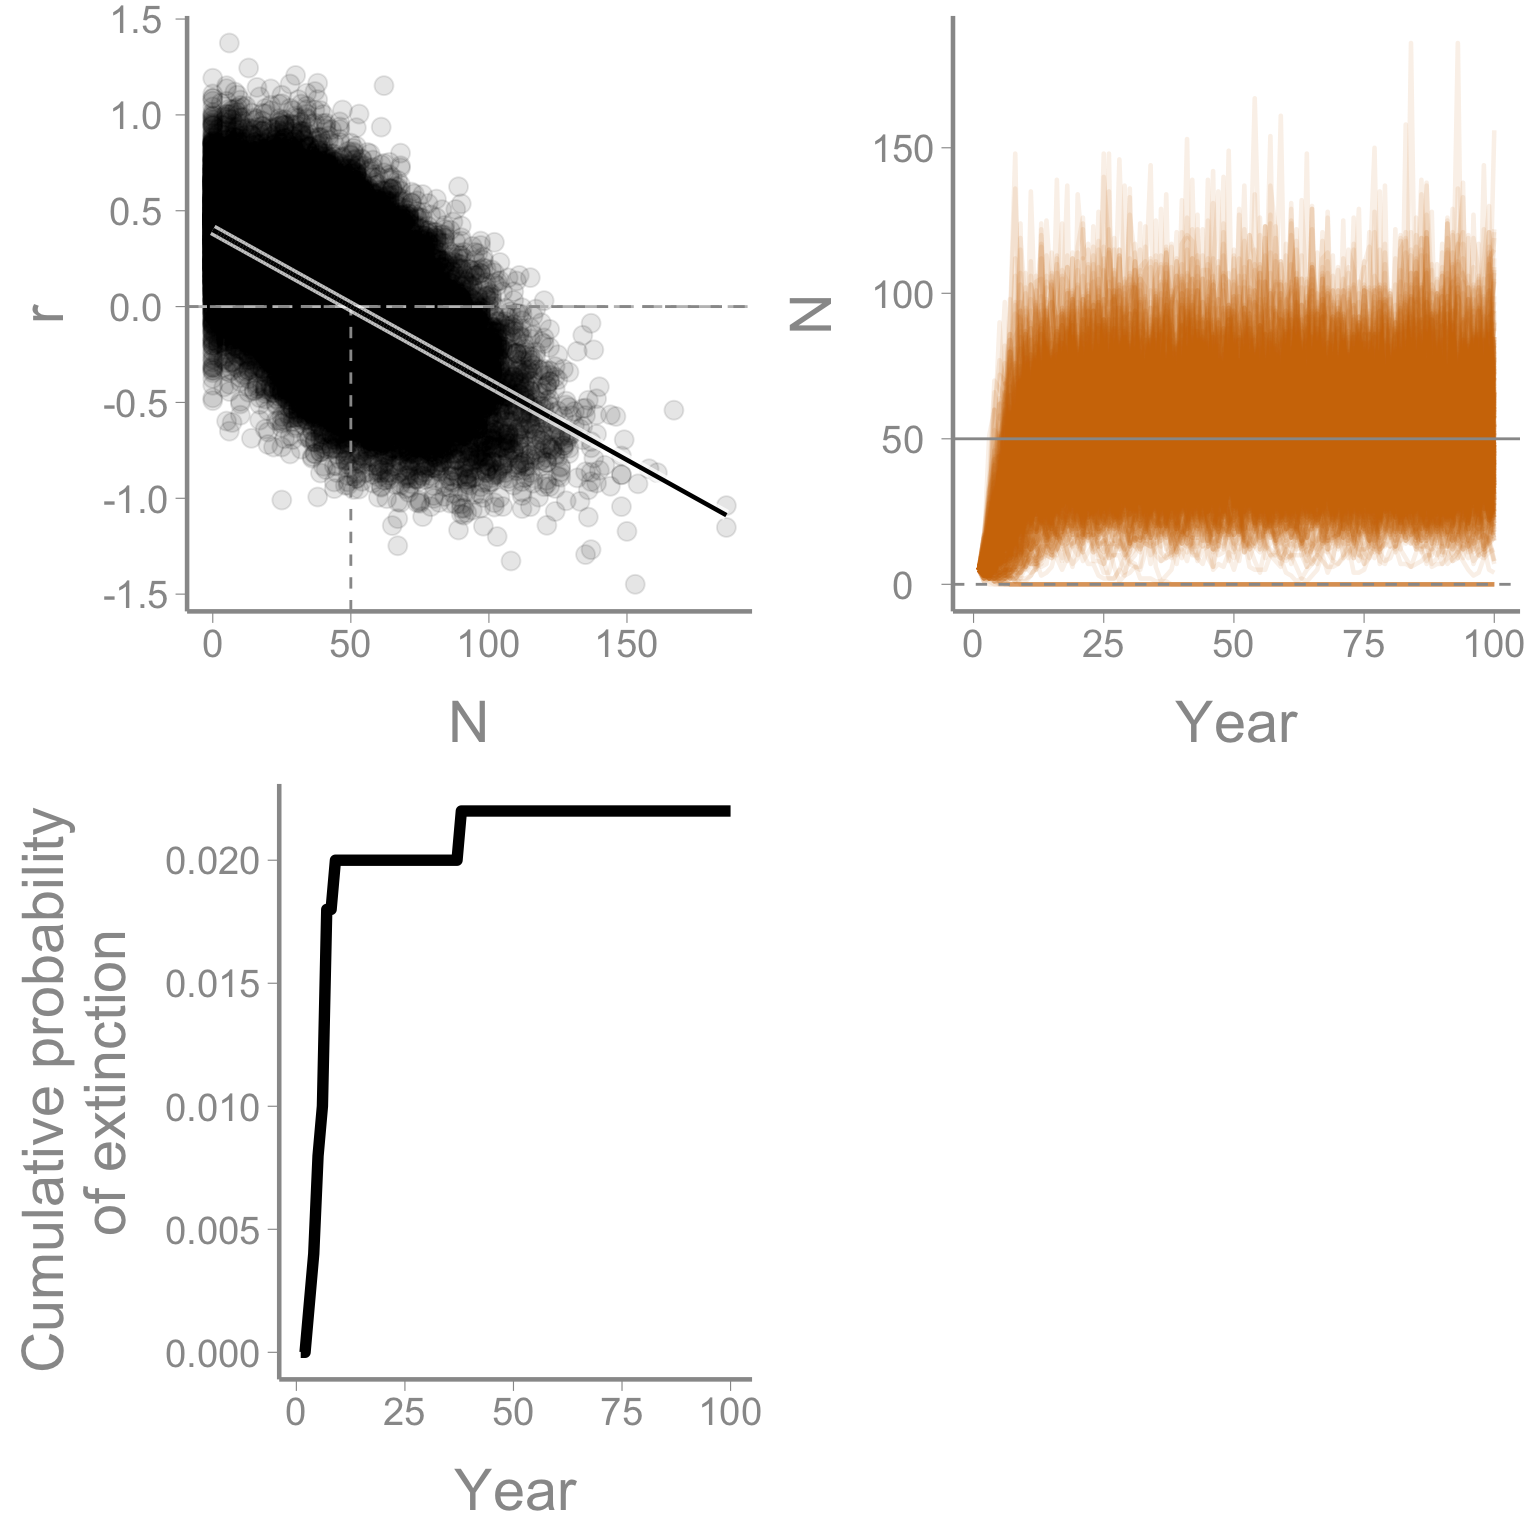
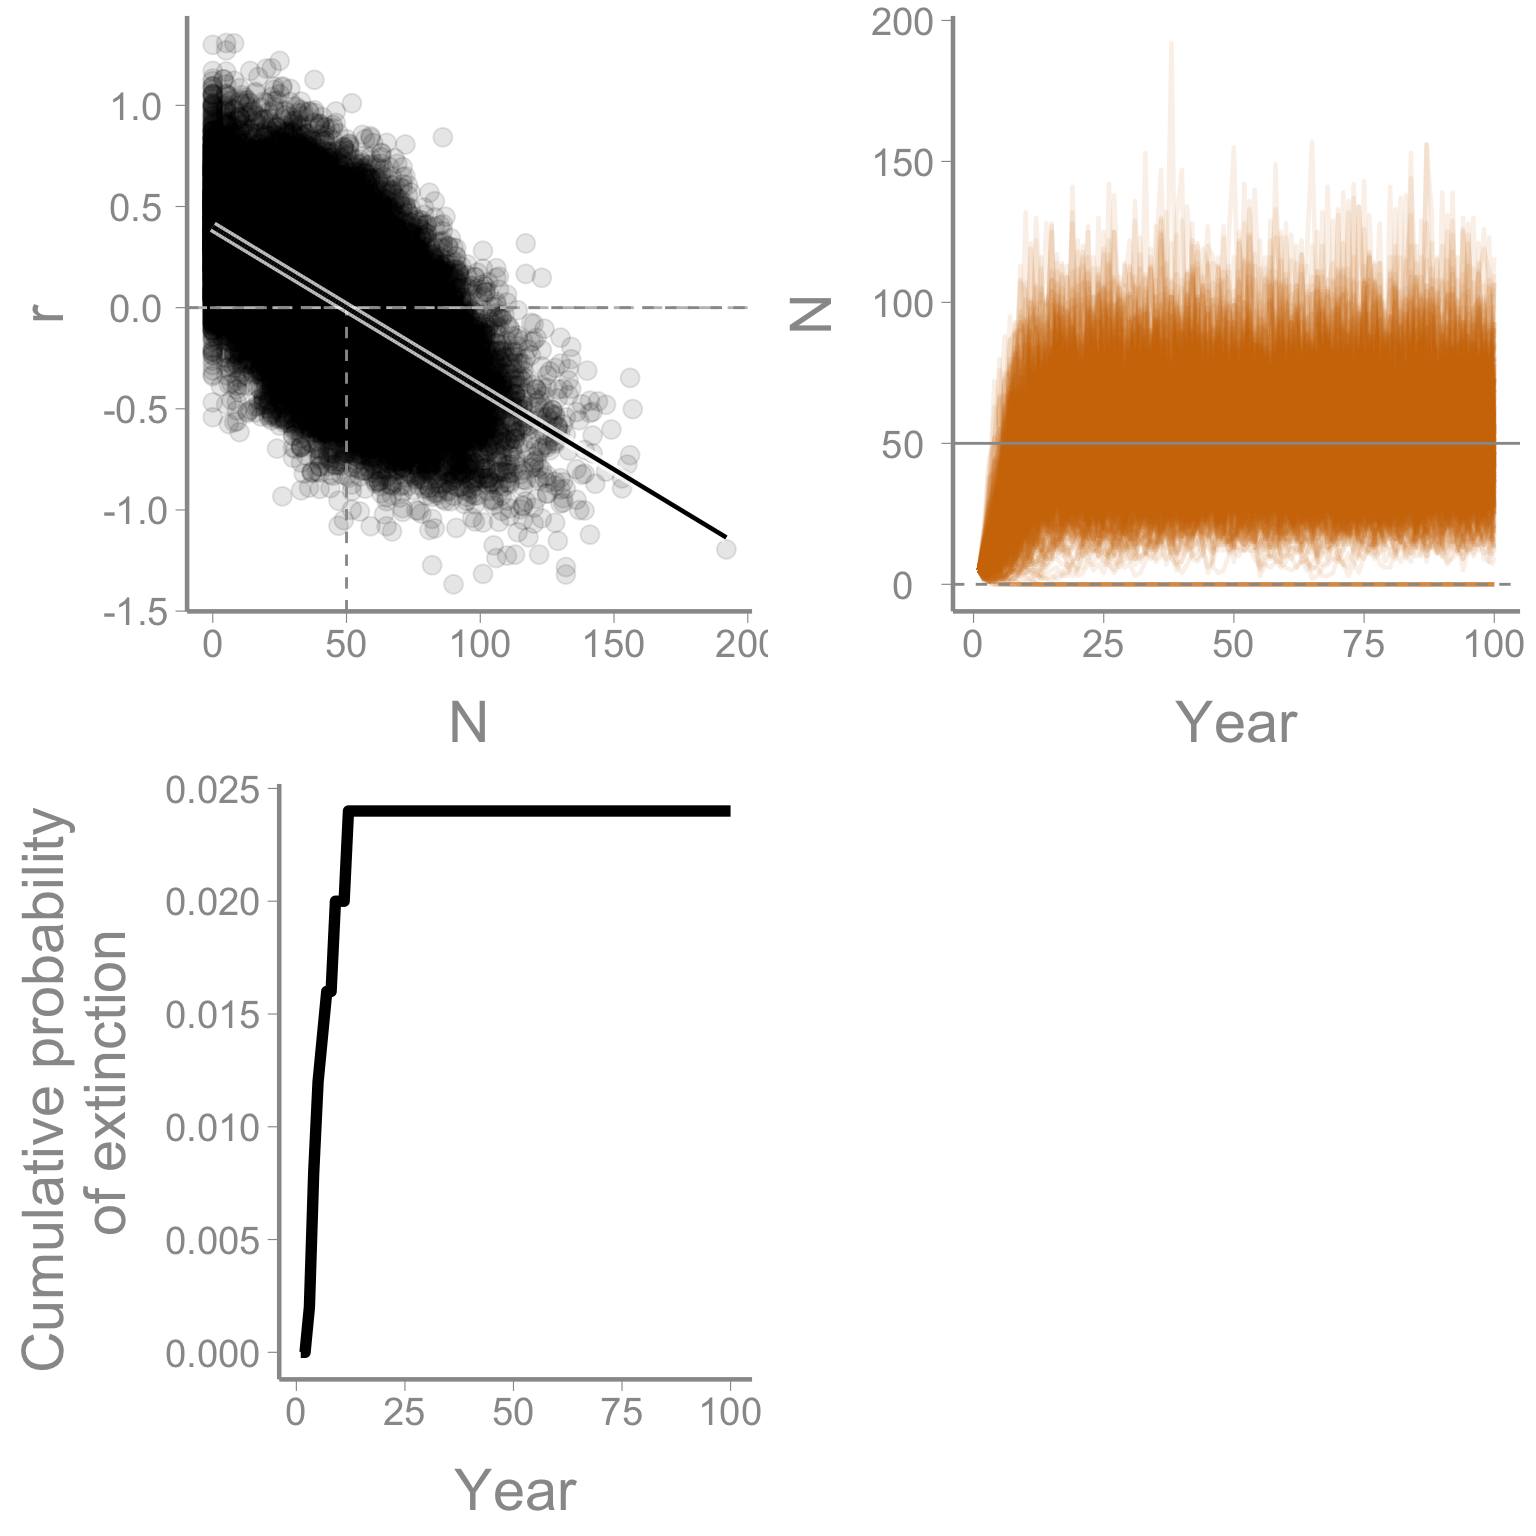
tweak lab3

diff --git a/docs/articles/lab3.html b/docs/articles/lab3.html
@@ -153,11 +153,11 @@
 <li>
 <code>R</code> functions used in this exercise:
 <ul>
-<li>
-<code><a href="../reference/pva.html">WILD3810::pva()</a></code> ***</li>
+<li><code><a href="../reference/pva.html">WILD3810::pva()</a></code></li>
 </ul>
 </li>
 </ul>
+<hr>
 <div id="setting-up-the-lab" class="section level2">
 <h2 class="hasAnchor">
 <a href="#setting-up-the-lab" class="anchor"></a>Setting up the lab</h2>
@@ -268,14 +268,14 @@ Yes
 1
 </td>
 <td style="text-align:right;">
-0.022
+0.024
 </td>
 <td style="text-align:right;">
-7
+5.5
 </td>
 </tr></tbody>
 </table>
-<p>This table returns some of the input parameters (<code>nYears</code>, <code>N0</code>, <code>r0</code>, <code>variance.r</code>) as well as summaries about the type of model (density dependent or independent), carrying capacity (if density-dependent). In addition, the output include two important summary statistics:</p>
+<p>This table returns some of the input parameters (<code>nYears</code>, <code>N0</code>, <code>r0</code>, <code>variance.r</code>) as well as summaries about the type of model (density dependent or independent) and carrying capacity (if density-dependent). In addition, the output include two important summary statistics:</p>
 <ol style="list-style-type: decimal">
 <li><p><code>prob.extinct</code>: the estimated probability of extinction over the simulated time frame</p></li>
 <li><p><code>median.time.to.ext</code>: of the populations that went extinct, the median number of years to extinction</p></li>
@@ -309,7 +309,7 @@ Yes
 <p>Next, let’s vary <code>K</code>. To start, leave the other options the same as in <code>sim_r.1</code> but with <code>K=150</code>:</p>
 <div class="sourceCode"><pre class="sourceCode r"><code class="sourceCode r">sim_K.<span class="dv">1</span> &lt;-<span class="st"> </span><span class="kw"><a href="../reference/pva.html">pva</a></span>(<span class="dt">N0 =</span> <span class="dv">5</span>, <span class="dt">number.of.years =</span> <span class="dv">100</span>, 
                 <span class="dt">r0 =</span> <span class="fl">0.1</span>, <span class="dt">variance.r =</span> <span class="fl">0.075</span>, <span class="dt">K =</span> <span class="dv">150</span>)</code></pre></div>
-<p>What happened to extinction probability relative to <code>K = 50</code>? To make sure the previous result wasn’t a fluke, let’s increase <code>K</code> again and see if the pattern holds:</p>
+<p>What happened to extinction probability relative to <code>K = 50</code>? To make sure the previous result wasn’t a fluke, increase <code>K</code> again and see if the pattern holds:</p>
 <div class="sourceCode"><pre class="sourceCode r"><code class="sourceCode r">sim_K.<span class="dv">2</span> &lt;-<span class="st"> </span><span class="kw"><a href="../reference/pva.html">pva</a></span>(<span class="dt">N0 =</span> <span class="dv">5</span>, <span class="dt">number.of.years =</span> <span class="dv">100</span>, 
                 <span class="dt">r0 =</span> <span class="fl">0.1</span>, <span class="dt">variance.r =</span> <span class="fl">0.075</span>, <span class="dt">K =</span> <span class="dv">500</span>)</code></pre></div>
 <hr>
@@ -340,7 +340,7 @@ Yes
 <div id="factor-3b-demographic-stochasticity" class="section level3">
 <h3 class="hasAnchor">
 <a href="#factor-3b-demographic-stochasticity" class="anchor"></a>Factor 3b: Demographic stochasticity</h3>
-<p>Before moving on from the question of population size, let’s look more closely at the role of demographic stochasticity by removing environmental stochasticity from the model (<code>variance.r = 0</code>) and observing how demographic stochasticity influences extinction risk at different carrying capacities. Start with a large K (<code>K=500</code>):</p>
+<p>Before moving on from the question of stochasticity, let’s look more closely at the role of demographic stochasticity by removing environmental stochasticity from the model (<code>variance.r = 0</code>) and observing how demographic stochasticity influences extinction risk at different carrying capacities. Start with a large K (<code>K=500</code>):</p>
 <hr>
 <p><strong>Prediction</strong>: At large sizes, do you expect demographic stochasticity to have important consequences for extinction risk?</p>
 <hr>
@@ -372,7 +372,7 @@ Yes
 <div class="sourceCode"><pre class="sourceCode r"><code class="sourceCode r">sim_var_r.<span class="dv">2</span> &lt;-<span class="st"> </span><span class="kw"><a href="../reference/pva.html">pva</a></span>(<span class="dt">N0 =</span> <span class="dv">20</span>, <span class="dt">number.of.years =</span> <span class="dv">100</span>, 
                    <span class="dt">r0 =</span> <span class="fl">0.4</span>, <span class="dt">variance.r =</span> <span class="fl">0.2</span>, <span class="dt">K =</span> <span class="dv">150</span>)</code></pre></div>
 <p>Were you right?</p>
-<p>Let’s increase <code>N0</code> again to make sure it wasn’t a fluke:</p>
+<p>Increase <code>N0</code> again to make sure it wasn’t a fluke:</p>
 <div class="sourceCode"><pre class="sourceCode r"><code class="sourceCode r">sim_N0.<span class="dv">2</span> &lt;-<span class="st"> </span><span class="kw"><a href="../reference/pva.html">pva</a></span>(<span class="dt">N0 =</span> <span class="dv">50</span>, <span class="dt">number.of.years =</span> <span class="dv">100</span>, 
                 <span class="dt">r0 =</span> <span class="fl">0.4</span>, <span class="dt">variance.r =</span> <span class="fl">0.2</span>, <span class="dt">K =</span> <span class="dv">150</span>)</code></pre></div>
 <p>What if <code>N0 &gt; K</code>?</p>
@@ -402,7 +402,7 @@ Yes
 <div class="sourceCode"><pre class="sourceCode r"><code class="sourceCode r">sim_theta.<span class="dv">2</span> &lt;-<span class="st"> </span><span class="kw"><a href="../reference/pva.html">pva</a></span>(<span class="dt">N0 =</span> <span class="dv">250</span>, <span class="dt">number.of.years =</span> <span class="dv">100</span>, 
                 <span class="dt">r0 =</span> <span class="fl">0.4</span>, <span class="dt">variance.r =</span> <span class="fl">0.2</span>, <span class="dt">K =</span> <span class="dv">150</span>, <span class="dt">theta =</span> <span class="fl">0.25</span>)</code></pre></div>
 <p>Was your prediction correct?</p>
-<p>Now let’s try <span class="math inline">\(\theta &gt; 1\)</span>:</p>
+<p>Now try <span class="math inline">\(\theta &gt; 1\)</span>:</p>
 <div class="sourceCode"><pre class="sourceCode r"><code class="sourceCode r">sim_theta.<span class="dv">3</span> &lt;-<span class="st"> </span><span class="kw"><a href="../reference/pva.html">pva</a></span>(<span class="dt">N0 =</span> <span class="dv">250</span>, <span class="dt">number.of.years =</span> <span class="dv">100</span>, 
                 <span class="dt">r0 =</span> <span class="fl">0.4</span>, <span class="dt">variance.r =</span> <span class="fl">0.2</span>, <span class="dt">K =</span> <span class="dv">150</span>, <span class="dt">theta =</span> <span class="fl">1.25</span>)</code></pre></div>
 <p>And even larger:</p>
@@ -410,19 +410,23 @@ Yes
                 <span class="dt">r0 =</span> <span class="fl">0.4</span>, <span class="dt">variance.r =</span> <span class="fl">0.2</span>, <span class="dt">K =</span> <span class="dv">150</span>, <span class="dt">theta =</span> <span class="fl">1.75</span>)</code></pre></div>
 <p>Before moving on, use the <code>dplyr</code> function <code>bind_rows</code> to create a new data frame that contains all of the simulations created in this section. Call the new data frame <code>sim_dd</code>.</p>
 </div>
+<div id="on-your-own" class="section level2">
+<h2 class="hasAnchor">
+<a href="#on-your-own" class="anchor"></a>On your own</h2>
+<p>So far, we have only varied one parameter at a time. On your own, play with different combinations of the parameters and see what happens to extinction risk and time to extinction. Before making a change, be sure to think about what you predict will happen and then see if you prediction was correct.</p>
+</div>
 <div id="putting-it-all-together" class="section level2">
 <h2 class="hasAnchor">
 <a href="#putting-it-all-together" class="anchor"></a>Putting it all together</h2>
-<p>On your own, create a new data frame that contains all of the simulated results:</p>
+<p>On your own, create a new data frame that contains all of the simulated results (add any that you created in the previou section):</p>
 <div class="sourceCode"><pre class="sourceCode r"><code class="sourceCode r">
 sim_pva &lt;-<span class="st"> </span><span class="kw">bind_rows</span>(sim_test, sim_r, sim_K, sim_var_r, sim_N0, sim_dd)</code></pre></div>
 <p>Now create your own plots showing the relationship between extinction probability/time to extinction and the parameters you varied in the simulations. Using the following code as a guide:</p>
-<div class="sourceCode"><pre class="sourceCode r"><code class="sourceCode r"><span class="kw"><a href="https://www.rdocumentation.org/packages/base/topics/library">library</a></span>(ggplot2)
-<span class="kw"><a href="https://ggplot2.tidyverse.org/reference/ggplot.html">ggplot</a></span>(sim_pva, <span class="kw"><a href="https://ggplot2.tidyverse.org/reference/aes.html">aes</a></span>(<span class="dt">x =</span> prob.extinct, <span class="dt">y =</span> variance.r, <span class="dt">size =</span> N0)) <span class="op">+</span><span class="st"> </span><span class="kw"><a href="https://ggplot2.tidyverse.org/reference/geom_point.html">geom_point</a></span>()</code></pre></div>
+<div class="sourceCode"><pre class="sourceCode r"><code class="sourceCode r"><span class="kw">ggplot</span>(sim_pva, <span class="kw">aes</span>(<span class="dt">x =</span> prob.extinct, <span class="dt">y =</span> variance.r, <span class="dt">size =</span> N0)) <span class="op">+</span><span class="st"> </span><span class="kw">geom_point</span>()</code></pre></div>
 </div>
-<div id="homework-3-population-viability-of" class="section level1">
+<div id="homework-3-population-viability-of-the-violet-winged-checkerspot" class="section level1">
 <h1 class="hasAnchor">
-<a href="#homework-3-population-viability-of" class="anchor"></a>Homework 3: Population viability of</h1>
+<a href="#homework-3-population-viability-of-the-violet-winged-checkerspot" class="anchor"></a>Homework 3: Population viability of the violet-winged checkerspot</h1>
 <div id="background" class="section level2">
 <h2 class="hasAnchor">
 <a href="#background" class="anchor"></a>Background</h2>
@@ -432,14 +436,14 @@ sim_pva &lt;-<span class="st"> </span><span class="kw">bind_rows</span>(sim_test
 <p><img src="lab3_files/figure-html/unnamed-chunk-29-1.png" width="700"></p>
 <p>After the initial drop in the population size, a working group made up of elected officials and appointed agency officials was formed to set management objectives and decide on management actions to ensure the long-term persistence of this species. The working group, afraid that setting specific management objectives might set themselves up for failure, decided on two vague objectives:</p>
 <ol style="list-style-type: decimal">
-<li><p>Ensure high probability that the population will not go extinct in the near future</p></li>
-<li><p>Ensure reasonable probability that the population does not drop below the monitoring threshold of 10</p></li>
+<li><p>Ensure high probability that the species will not go extinct in the near future</p></li>
+<li><p>Ensure reasonable probability that the species does not drop below the monitoring threshold of 10</p></li>
 </ol>
 <p>The second objective was created because once the population drops below 10 individuals, it becomes very difficult to find and count individuals. Therefore, maintaining the population above this quasi-extinction threshold was viewed as an important objective for accurately monitoring future population size.</p>
 <div id="turning-the-objectives-into-actions" class="section level3">
 <h3 class="hasAnchor">
 <a href="#turning-the-objectives-into-actions" class="anchor"></a>Turning the objectives into actions</h3>
-<p>Because the working group contained no ecologists, the members had to out-source the hard work of actually predicting the future dynamics of the checkerspot under different management scenarios. As the agency’s most promising young entomologist and an expert in population viability analysis, you have been asked to conduct a study and provide the working group with a specific recommendation for how to meet the two management objectives.</p>
+<p>Because the working group contained no ecologists, the members had to out-source the hard work of actually predicting the future dynamics of the checkerspot. As the agency’s most promising young entomologist and an expert in population viability analysis, you have been asked to conduct a study and provide the working group with a specific recommendation for how to meet the two management objectives.</p>
 <p>In order to provide the working group with a scientifically-sound recommendation, you pull together all of the data you can find on the violet-winged checkerspot. These data include:</p>
 <ul>
 <li>The observed counts of individuals in each year since 1980. These are stored in a data frame which can be accessed directly in <code>R</code>. The data frame contains the <code>Year</code>, abundance (<code>N</code>), and whether the count was conducted before or after the housing developments were built.</li>
@@ -491,10 +495,11 @@ sim_pva &lt;-<span class="st"> </span><span class="kw">bind_rows</span>(sim_test
 <li><p>The carrying capacity in this case refers to <code>K</code> <em>after</em> the housing development was built. You have enough information to estimate this by estimating <code>K</code> <em>before</em> the housing development and then reducing that by the amount of habitat that was lost. Use the <code><a href="https://www.rdocumentation.org/packages/stats/topics/filter">filter()</a></code> function from the <code>dplyr</code> package to filter just the observed counts before the housing development. Then estimate <code>K</code> as the mean of those counts</p></li>
 <li><p>The baseline birth and death rates as well as the rates in fire years can be estimated from the observed number of births and deaths. Did those rates change before and after the development? Use your best scientific judgement to answer this. Were those rates different in fire years? To estimate these rates, create vectors that hold the observed births or deaths and the observed abundance in each of those years. Then estimate the mean birth rate or death rate from these objects.</p></li>
 <li><p>The function requires an estimate of the fire frequency. Think of this as the <em>probability</em> of a fire any given year. Did this frequency change before and after the development?</p></li>
-<li><p>The working group was vague about the time frame and acceptable extinction probability. You will have to decide what time frame and risk correspond to “near future” and “high probability” (or “reasonable probability” for the monitoring threshold)</p></li>
+<li><p>The working group was vague about the time frame and acceptable extinction probability. You will have to decide what time frame and risk correspond to “near future” and “high probability” (or “reasonable probability” for the monitoring threshold). In your recommendation, you will need state the time frane you chose and justify this choice.</p></li>
 </ol>
 <p>Once you have code that creates all of the objects you need to run the function, you can run it using:</p>
 <div class="sourceCode"><pre class="sourceCode r"><code class="sourceCode r">base_pva &lt;-<span class="st"> </span><span class="kw"><a href="../reference/baseline_pva.html">baseline_pva</a></span>(...)</code></pre></div>
+<p>Subsituting <code>...</code> for the required arguments.</p>
 <p>In addition to the figure showing the predicted dynamics of the simulated populations, the <code>base_pva</code> object is a data frame containing the final abundance of each simulated population, whether the population ended below the extinction threshold, and the number of years it took for the “extinct” populations to go extinct. You can use this object to estimate the probability of quasi-extinction and median time to extinction:</p>
 <div class="sourceCode"><pre class="sourceCode r"><code class="sourceCode r"><span class="kw"><a href="https://www.rdocumentation.org/packages/base/topics/mean">mean</a></span>(base_pva<span class="op">$</span>Extinct)
 <span class="kw"><a href="https://www.rdocumentation.org/packages/stats/topics/median">median</a></span>(base_pva<span class="op">$</span>year0, <span class="dt">na.rm =</span> <span class="ot">TRUE</span>) <span class="co"># Note that you need the `na.rm = TRUE` for this function to work</span></code></pre></div>
@@ -506,7 +511,7 @@ sim_pva &lt;-<span class="st"> </span><span class="kw">bind_rows</span>(sim_test
 <div id="management-actions" class="section level2">
 <h2 class="hasAnchor">
 <a href="#management-actions" class="anchor"></a>Management actions</h2>
-<p>With the baseline predictions, you are know ready to explore several management actions that could be taken to reduce the extinction risk of the checkerspot. These actions include:</p>
+<p>With the baseline predictions, you are now ready to explore several management actions that could be taken to reduce the extinction risk of the checkerspot. These actions include:</p>
 <ol style="list-style-type: decimal">
 <li><p>Increase <code>K</code> by creating new habitat</p></li>
 <li><p>Decrease the frequency of fires by more aggressively managing them before they become severe</p></li>
@@ -519,7 +524,7 @@ sim_pva &lt;-<span class="st"> </span><span class="kw">bind_rows</span>(sim_test
 <code>fire.prob</code> - the future fire frequency due to fire management</li>
 </ul>
 <p>This function will also return a data frame with the same information as <code>baseline_pva</code>, which will allow you estimate the extinction probability and time to extinction for the management scenario you created. In addition, it will save the figure to the folder where your .Rmd file is located (the figure will be called <code>alternative_pva.png</code>).</p>
-<p>You should also run the function with <code>extinction.threshold=10</code> to check the monitoring objective as well (this will create a figure called <code>alternative_monitoring_pva.png</code>).</p>
+<p>You should also run the function with <code>extinction.threshold=10</code> to check the monitoring objective..</p>
 <p>Of course, management costs money and money is limited. Every 1% increase in <code>K</code> costs $500 and every 1% decrease in fire frequency costs $1500. The total available funds for this project is $100,000. If the proposed combination of increased <code>K</code> and decreased fire probability exceeds the total cost, you will get an error message stating that you need to either reduce <code>K</code> or allow a higher fire probability.</p>
 <p>Run this function as many times as needed from within the chunk until you are satisfied that you have found the combination of habitat creation and fire reduction that best meets the stated management objectives.</p>
 </div>
@@ -545,9 +550,10 @@ sim_pva &lt;-<span class="st"> </span><span class="kw">bind_rows</span>(sim_test
       <li><a href="#factor-3-variability-in-r">Factor 3: Variability in <code>r</code></a></li>
       <li><a href="#factor-4-initial-population-size">Factor 4: Initial population size</a></li>
       <li><a href="#factor-5-strenth-of-density-dependence">Factor 5: Strenth of density dependence</a></li>
+      <li><a href="#on-your-own">On your own</a></li>
       <li><a href="#putting-it-all-together">Putting it all together</a></li>
       <li>
-<a href="#homework-3-population-viability-of">Homework 3: Population viability of</a><ul class="nav nav-pills nav-stacked">
+<a href="#homework-3-population-viability-of-the-violet-winged-checkerspot">Homework 3: Population viability of the violet-winged checkerspot</a><ul class="nav nav-pills nav-stacked">
 <li><a href="#background">Background</a></li>
       <li><a href="#setting-up-the-assignment">Setting up the assignment</a></li>
       <li><a href="#baseline-extinction-risk">Baseline extinction risk</a></li>
